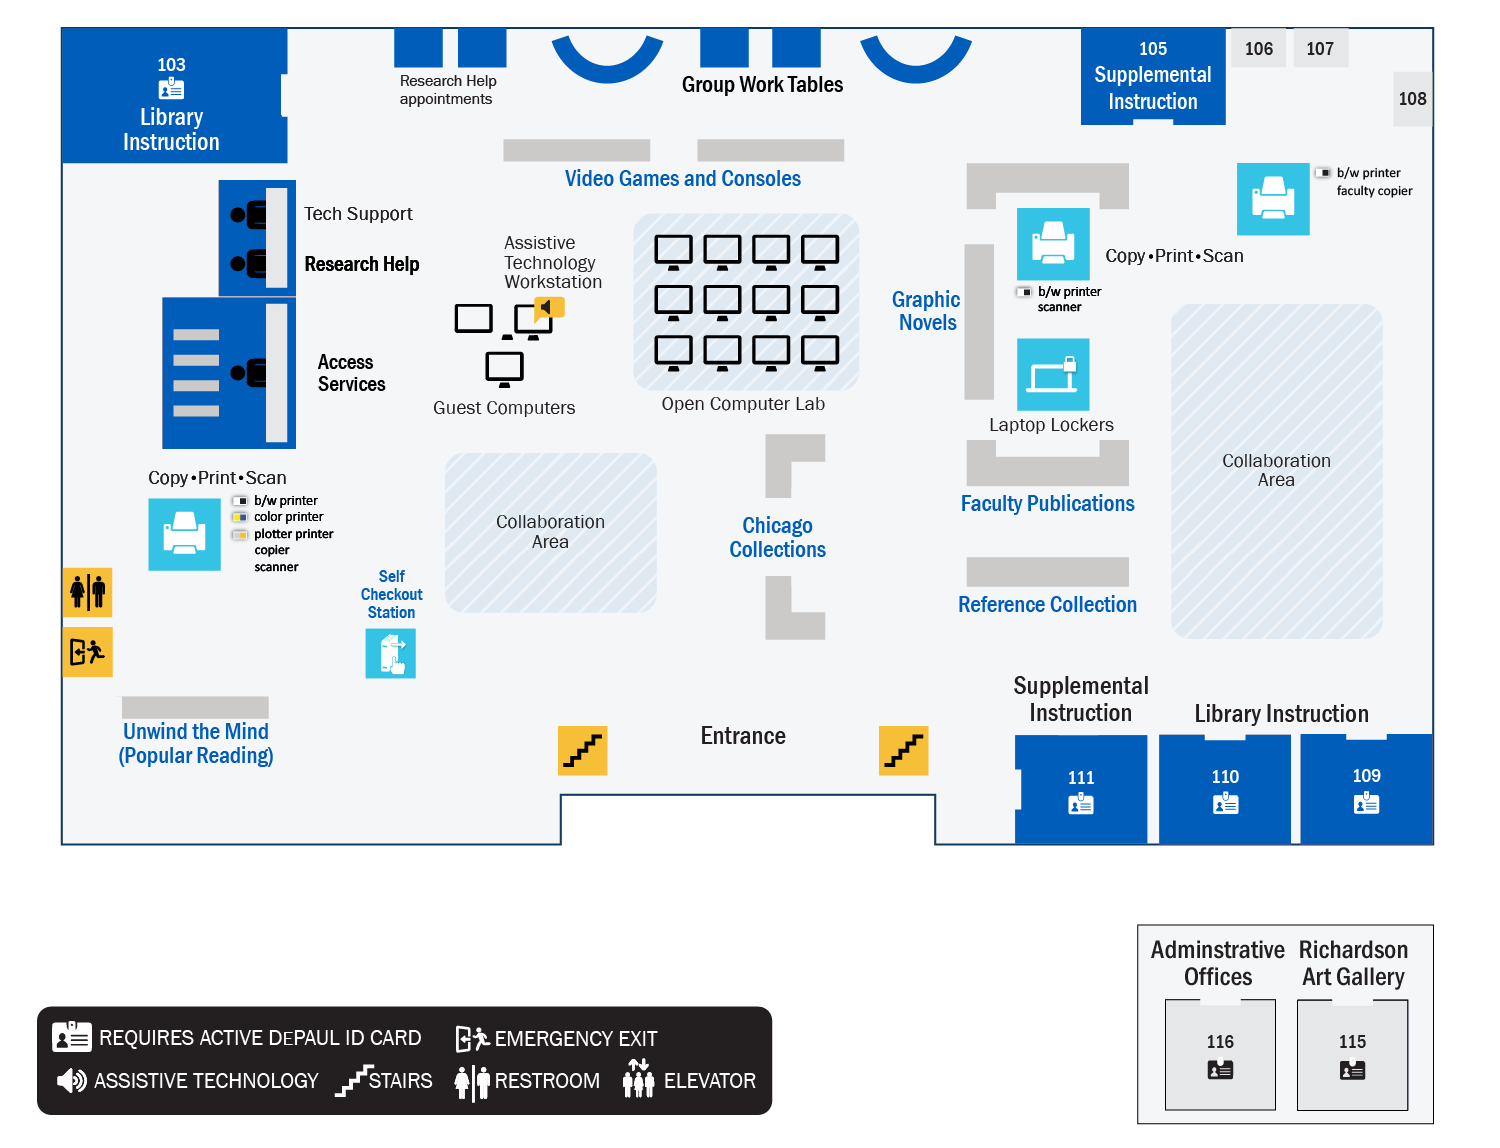
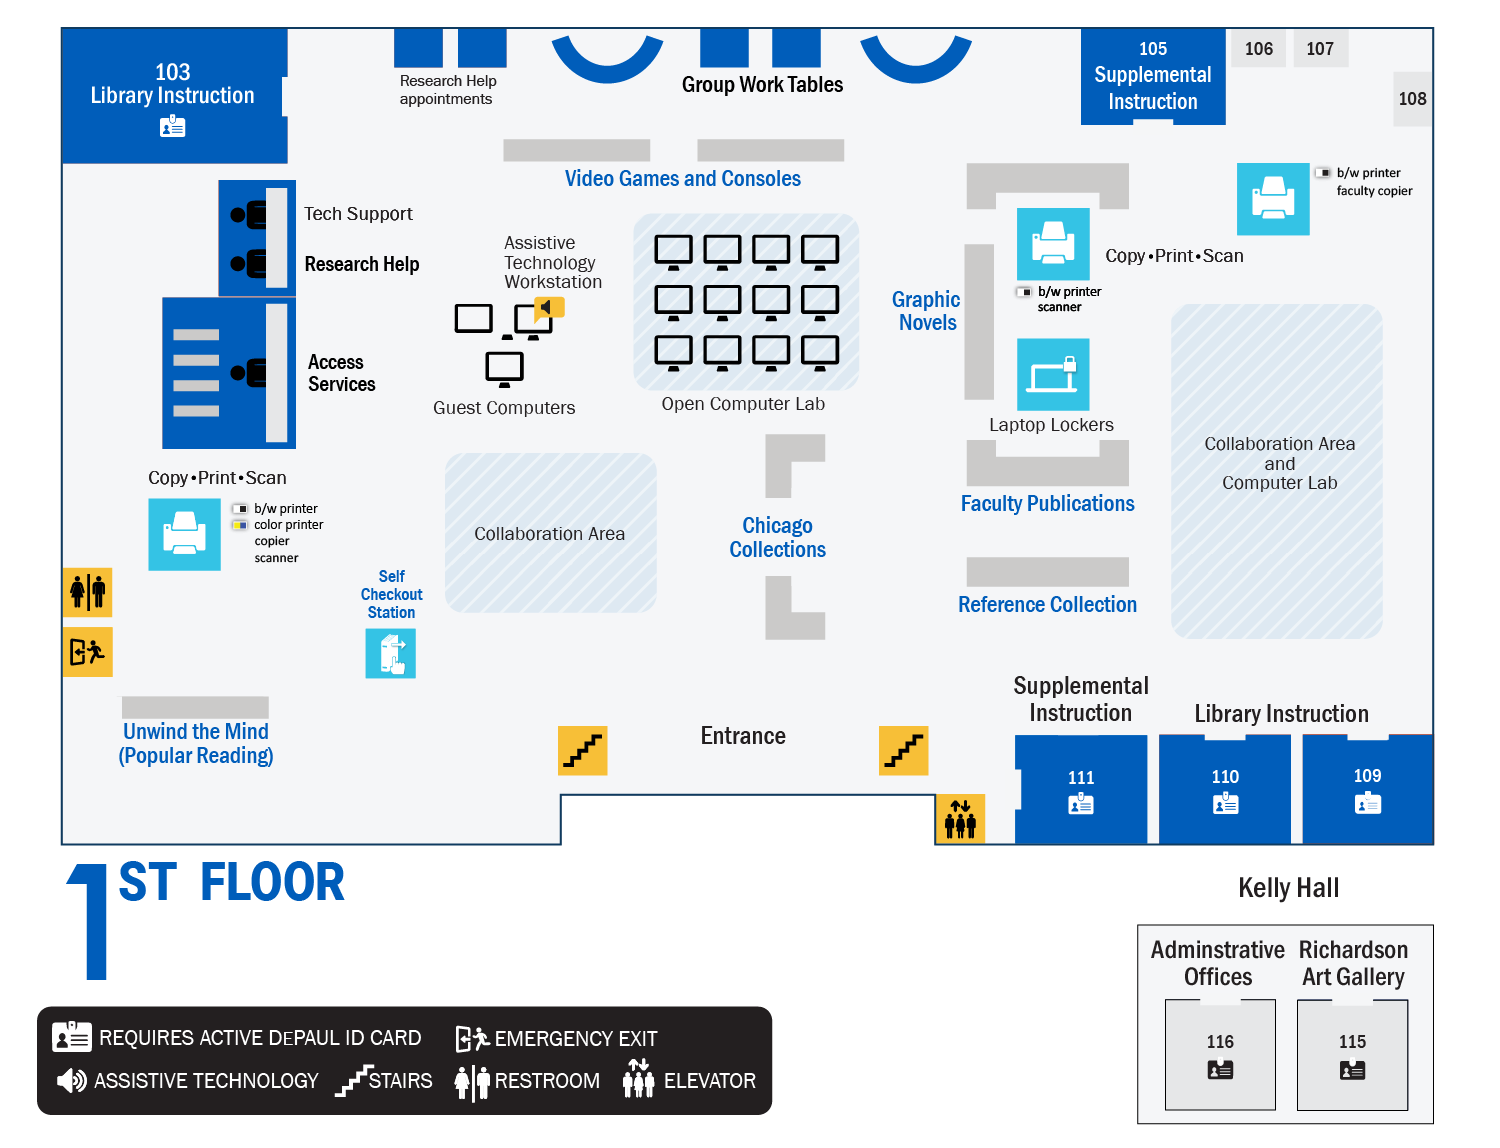
separate library and supplemental instruction

diff --git a/js/wayfinding.js b/js/wayfinding.js
@@ -32,11 +32,11 @@
         "1_gallery": 			["", ["1_gallery.png"]],
 		"1_graphicnovels": 		["", ["1_graphicnovels.png"]],
 		"guestcomputers":		["", ["1_guestcomputers.png", "3_guestcomputers.png", "4_guestcomputers.png"]],
-        "1_instruction": 		["<p><strong>Library Instruction</strong><br /><br />Library Instruction works with faculty to create customized research instruction sessions based on the needs of courses and assignments. The goal of the instruction program is to help students develop the critical thinking and information literacy skills necessary to conduct effective library research.</p><br><p><strong>Supplemental Instruction</strong><br><br>Supplemental Instruction aims to help students successfully complete historically difficult classes through weekly&nbsp;peer-assisted&nbsp;study sessions. It is offered free program offered by the Center for Teaching and Learning.</p>", ["1_instruction.png"]],
-		"1_learningcommons": 	["<b>Learning Commons</b><br/><br/>The Learning Commons is a student-centered learning environment that provides collaborative peer-education in a central location surrounded by academic resources.<br/><br/><b>Services Offered:</b><br/><ul><li>Tutoring in Chemistry, Math, Psychology, and Languages (Arabic, Chinese, French, Italian, Japanese, Ancient Greek, Russian, and Spanish)</li><li>Study Jams via OMSS<br/><li>Resume, Internship & Job Help through the Career Center</li><li>Supplemental Instruction</li><li>Workshops</li></ul>", ["1_learningcommons.png"]],
+        "1_instruction": 		["<p><strong>Library Instruction</strong><br /><br />Library Instruction works with faculty to create customized research instruction sessions based on the needs of courses and assignments. The goal of the instruction program is to help students develop the critical thinking and information literacy skills necessary to conduct effective library research.</p>", ["1_instruction.png"]],
         "1_laptoplockers": 		["", ["1_laptoplockers.png"]],
         "1_recreational": 		["", ["1_recreational.png"]],
         "1_researchhelpdesk": 		["<b>Research Help Desk</b><br/><br/>Research Librarians and Peer Research Tutors help you explore your topic and show you how to search effectively for books, articles and other information (like statistics) in library databases and the web. Researchers can ask for in-depth help, or just get assistance finding a single item.<br><br>There is also lab support available to help with printing and scanning issues.", ["1_researchhelpdesk.png"]],
+        "1_supplemental": 		["<p><strong>Supplemental Instruction</strong><br><br>Supplemental Instruction aims to help students successfully complete historically difficult classes through weekly&nbsp;peer-assisted&nbsp;study sessions. It is offered free program offered by the Center for Teaching and Learning.</p>", ["1_supplemental.png"]],
 		"2_chicago": 			["", ["2_chicago.png"]],
 		"2_circulationdesk": 	["", ["2_circulationdesk.png"]],
         "2_core": 			    ["<b>CoRE - Collaborative Research Enviroment</b><br/><br/><br/>Open plan computing with high-powered, dedicated computer workstations (Mac & PC) conducive to digital mapping, text and data mining, 3-D modelling, and data visualization by single users or small groups.  Includes double, high-solution screens and Cintiq screens.", ["2_core.png"]],
